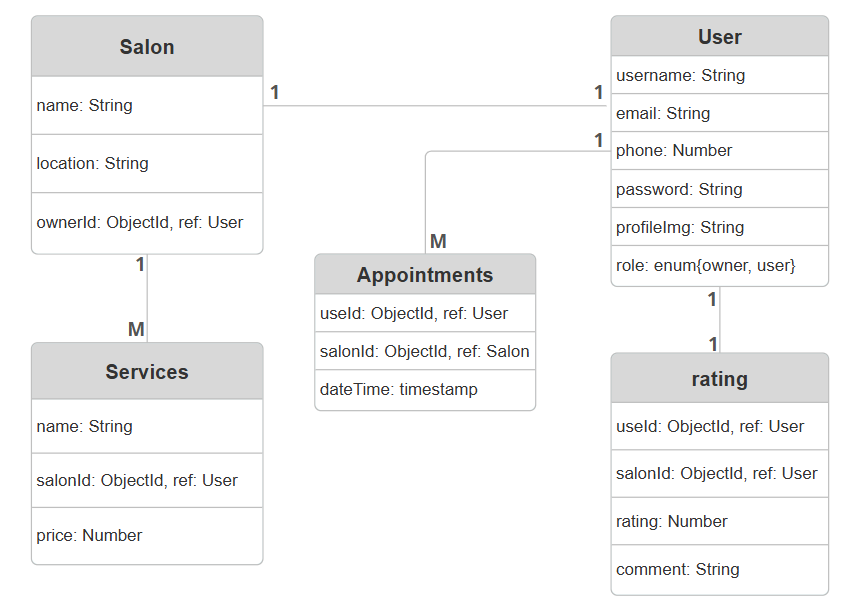
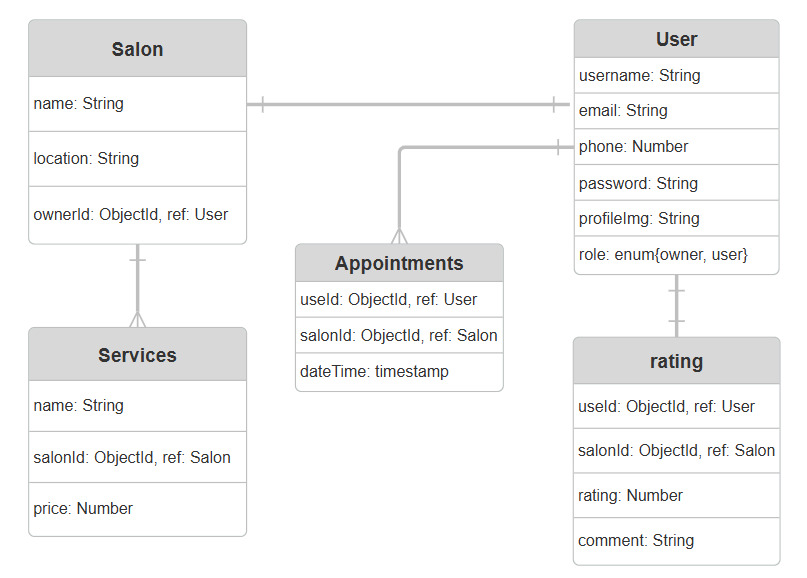
edit erd

diff --git a/server.js b/server.js
@@ -33,12 +33,12 @@ app.use(
 // app.use(passUser)
 
 // Auth Router
-const authRouter = require("./routes/authRouter")
-app.use("/auth", authRouter)
+// const authRouter = require("./routes/authRouter")
+// app.use("/auth", authRouter)
 
-// User Router
-const userRouter = require("./routes/userRouter")
-app.use("/users", isSignedIn, userRouter)
+// // User Router
+// const userRouter = require("./routes/userRouter")
+// app.use("/users", isSignedIn, userRouter)
 
 
 

diff --git a/models/User.js b/models/User.js
@@ -1,0 +1,27 @@
+const mongoose = require("mongoose")
+
+const userSchema = new mongoose.Schema(
+  {
+    username: {
+      type: String,
+      required: true,
+    },
+    email: {
+      type: String,
+      required: true,
+    },
+    password: {
+      type: String,
+      required: true,
+    },
+    picture: {
+      type: String,
+    },
+  },
+  {
+    timestamps: true,
+  }
+)
+
+const User = mongoose.model("User", userSchema)
+module.exports = User
